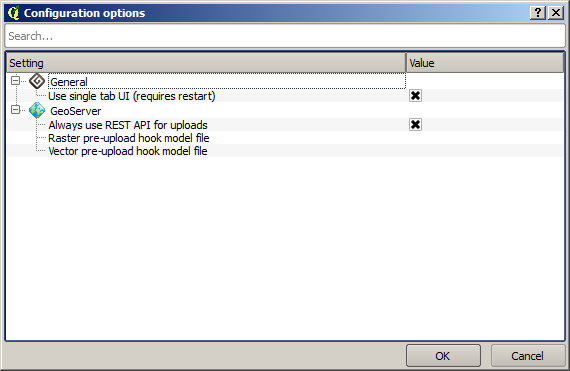
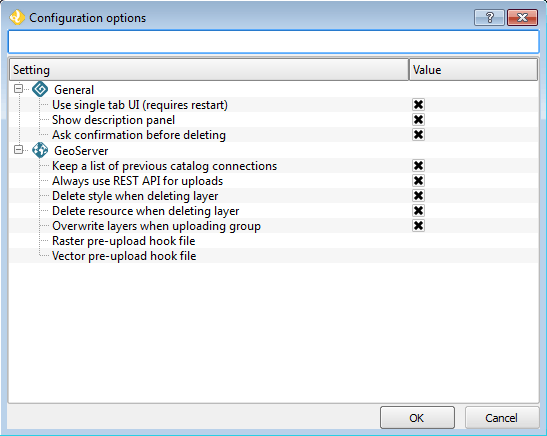
Updating configuration page

diff --git a/doc/source/config/index.rst b/doc/source/config/index.rst
@@ -3,71 +3,103 @@
 Configuration
 =============
 
-Along with the menu entry that starts the Explorer, you will find an entry that opens the configuration window, which looks as shown next.
+In the OpenGeo menu, along with the entry that starts OpenGeo Explorer, you will find an entry that opens the OpenGeo Explorer configuration dialog called :guilabel:`OpenGeo Explorer settings`.
+
+.. figure:: ../img/actions/plugin_menu.png
+
+   OpenGeo Explorer menu
 
 .. figure:: img/config.png
 
+The properties that can be configured are described in detail below.
 
-Use the parameters in this dialog to configure the Explorer to your particular needs. The properties that can be configured are described in detail below.
+Use single tab UI
+-----------------
 
-Tabbed vs single-tab interface
-------------------------------
-
-By default, the Explorer shows all categories (GeoServer, PostGIS) in a single panel, as branches in a tree. If you enable the multi-tab user interface, each category is put in a separate tab, and each tab contains a panel with a tree of elements belonging to the corresponding category, as shown in the next figure.
+By default, OpenGeo Explorer shows all categories (GeoServer Catalogs, PostGIS Databases, and QGIS Project) in a single panel as branches in a tree. If you enable the multi-tab user interface, each category is put in a separate tab, with a tree of elements belonging to the corresponding category, as shown in the next figure.
 
 .. figure:: img/multi-tab.png
 
+   Multi-tab interface
 
+Subcategories (such as layers or workspaces, in the case of a GeoServer catalog) can be accessed using the buttons on the lower part of the panel.
 
-Functionality can be accessed in the same way as in the default interface, by right clicking on an element or selecting it and using the buttons that will appear in the toolbar on the upper part of the panel. Drag & drop functionality is limited to elements within the same category. 
+All other functionality is identical, though drag and drop functionality is limited to elements within the same category.
 
-In case they exist, subcategories (such as layers, workspaces, etc., in the case of a GeoServer catalog) can be switched using the buttons on the lower part of the panel.
+QGIS will need to be restarted for this change to take effect.
 
-When you change the type of UI by changing the corresponding value in the configuration dialog, the Explorer interface is not automatically changed. Restarting QGIS is needed for the change to take effect.
+Show description panel
+----------------------
+
+This option will toggle whether the Description panel at the bottom (or side) of the plugin interface is shown. By default, this is checked.
+
+Ask confirmation before deleting
+--------------------------------
+
+It is possible to make changes to the various connected servers and databases, including making deletions. When this option is checked, a dialog will show asking for confirmation before any deletions will happen.
+
+.. warning:: It is highly recommended to keep this box enabled to prevent unintended loss of data.
 
 .. _gs_connections:
 
-Keeping a list of previous GeoServer connections
-------------------------------------------------
+Keep a list of previous GeoServer connections
+---------------------------------------------
 
-If you enable this option, whenever you connect to a catalog, the information that defines that connections is kept between sessions. Next time that you start QGIS and the OpenGeo Explorer, you will see the catalogs item populated with all the previous connections, as shown in the next picture.
+Enabling this option will cause all connection information will be preserved between QGIS sessions.
+
+Subsequent launching of QGIS and OpenGeo Explorer will show the Catalogs item populated with previous connections.
+
+While the connection information is stored, catalog data is fetched only on request. Unpopulated catalogs are shown with a gray icon; Refresh the catalog item to populate it. 
 
 .. figure:: img/gray_catalog.png
 
-Retrieving information from each connection might take a long time and cause QGIS to take too long to start up. For this reason, catalog data is fetch on request and not automatically when starting the OpenGeo Explorer. You should refresh the catalog item to populate it. Unpopulated catalogs are shown with a gray icon.
+   Previous saved connections shown in gray
 
-If the catalog uses basic authentication and username and password are introduced using the basic authentication tab, the password is not stored. You will be prompted to enter it when you reconnect to the catalog. If the *Configurations* tab is used, connection data (wheter password or certificate-based) will be stored in the encrypted QGIS auth database. You will be prompted to enter the master password in case you haven't used the auth database in the current QGIS session.
+If the catalog uses basic authentication, the password will not be stored. You will be prompted to enter it when you reconnect to the catalog. If the *Configurations* tab is used, connection data (wheter password or certificate-based) will be stored in the encrypted QGIS auth database. You will be prompted to enter the master password in case you haven't used the auth database in the current QGIS session.
 
 To know more about how to use authentication configurations in QGIS, see the `Authentication configurations <./auth.html>`_ section
 
 To delete a catalog from the list of previous connections, use the :guilabel:`Remove` option of the catalog item in the Explorer tree.
 
-Using the GeoServer importer API
+Always use REST API for uploads
+-------------------------------
+
+This option currently has no effect. All uploads are done using the REST API.
+
+.. .. note:: The importer API is currently disabled in the OpenGeo Explorer, and changing the value of the parameter will have no effect at all. All uploads are done using the REST API.
+
+.. By default, layers are uploaded to a GeoServer catalog using the GeoServer REST API. As an alternative, the importer API can be used to provide a better and more responsive upload, specially in the case of large uploads with multiple layers or when large layers are being uploaded.
+
+.. OpenGeo Suite 4.0 includes the importer API by default, but an independent GeoServer instance normally does not contain it, even if it is a recent version that is supported by the Explorer plugin. Make sure that you are running OpenGeo Suite or that you have manually installed the importer API on your GeoServer before setting this configuration parameter. 
+
+Delete style when deleting layer
 --------------------------------
 
-.. note: The importer API is currently disabled in the OpenGeo Explorer, and changing the value of the parameter will have no effect at all. All uploads are done using the REST API.
+Layers in GeoServer must have a default style associated with it. It is possible to delete the layer without deleting the style though, to save the style for use with other layers.
 
-By default, layers are uploaded to a GeoServer catalog using the GeoServer REST API. As an alternative, the importer API can be used to provide a better and more responsive upload, specially in the case of large uploads with multiple layers or when large layers are being uploaded.
+When enabled, this option will delete the default style associated with the layer when the layer is deleted through OpenGeo Explorer, and when that style is not used by any other layer.
 
-OpenGeo Suite 4.0 includes the importer API by default, but an independent GeoServer instance normally does not contain it, even if it is a recent version that is supported by the Explorer plugin. Make sure that you are running OpenGeo Suite or that you have manually installed the importer API on your GeoServer before setting this configuration parameter. 
+Delete resource when deleting layer
+-----------------------------------
 
-Pre-upload Processing hooks
+When this option is checked, the resource that is part of a layer will also be deleted from its corresponding store if the layer is deleted.
+
+.. todo:: Add more details.
+
+Overwrite layers when uploading group
+-------------------------------------
+
+When this option is enabled, OpenGeo Explorer will overwrite layers in the GeoServer catalog on upload, if a layer with the same name exists. 
+
+When this option is not enabled, if a layer with the same name already exists in GeoServer, it will be used, and the corresponding QGIS layer will not be uploaded.
+
+Pre-upload processing hooks
 ---------------------------
 
-If you need to preprocess you data before it is uploaded, you can set up a pre-upload hook that will be run on any layer before it is sent to GeoServer. Instead of the original layer, the result of that hook will be uploaded.
+If you need to process your data before it is uploaded, you can set up a pre-upload hook that will be run on any layer before it is sent to GeoServer. Instead of the original layer, the result of that hook will be uploaded.
 
-Pre-upload hooks are defined separately for raster and vector layers. In both cases, they are defined as the path to a Processing model (.model) or script (.py) file. That algorithm defined by that hook file will be loaded and executed to obtain the final layer to upload. Creation of Processing models and scripts is not covered in this text. Please refer to the `Processing chapter in the QGIS manual <http://qgis.org/es/docs/user_manual/processing/index.html>`_  to know more about it.
+Pre-upload hooks are defined separately for raster and vector layers. In both cases, they are defined as the path to a processing model (``.model``) or script (``.py``) file. The algorithm defined by that hook file will be loaded and executed to obtain the final layer to upload.
 
-In the case of raster layers, the hook algorithm must have a single input of type raster layer and a single output, also of type raster layer. In the case of vector layers, both input and output must be of type vector layer. If the selected model does not exist or does not have the required characteristics, it will just be ignored, and the original layer will be uploaded without any preprocessing.
+.. note:: Please refer to the `Processing chapter in the QGIS manual <http://docs.qgis.org/latest/en/docs/user_manual/processing/index.html>`_ to learn more about the creation of processing models and scripts.
 
-For these functionality to be available, you need a version of Processing more equal or higher that 2.0.1.1. If you just install QGIS 2.0.1, you will have 2.0.1.1 installed (Procesing versions are named after the QGIS version, with an extra number, to indicate the number of independent releases of the plugin after the corresponding QGIS version has been released), so you have to update it using the QGIS Plugin Manager. If your QGIS installation doesn't have a valid Processing version, you can still use the remaining funcitonality of the OpenGeo Explorer, but pre-upload hooks will not be run, and the correspoding parameters in the config dialog will not be shown. After updating you Processing plugin, a restart is needed so the OpenGeo Explorer can update itself to the new configuration.
-
-Other parameters
-----------------
-
-* *Delete style when deleting layer*. If a GeoServer layer is deleted and is the only layer using a given style, the style will be also deleted if this parameters is checked
-
-* *Delete resource when deleting layer*. If this parameter is checked, the resource that is part of a layer will also be deleted from its corresponding store if the layer is deleted.
-
-* *Overwrite layers when uploading group*. When uploading a group, if this option is not enabled, the Explorer will try to reuse layers that already exist in the catalog. If a layer with the same name already exist, it will be used for the group, and the corresponding QGIS layer will not be uploaded. Check it if you want all layers to be imported, overwriting layers with the same name that might exist in the catalog.
-
+For raster layers, the hook algorithm must have both input and output be of type raster layer. For vector layers, both input and output must be of type vector layer. If the selected model does not exist or does not have the required characteristics, it will be ignored, and the original layer will be uploaded without any preprocessing.
